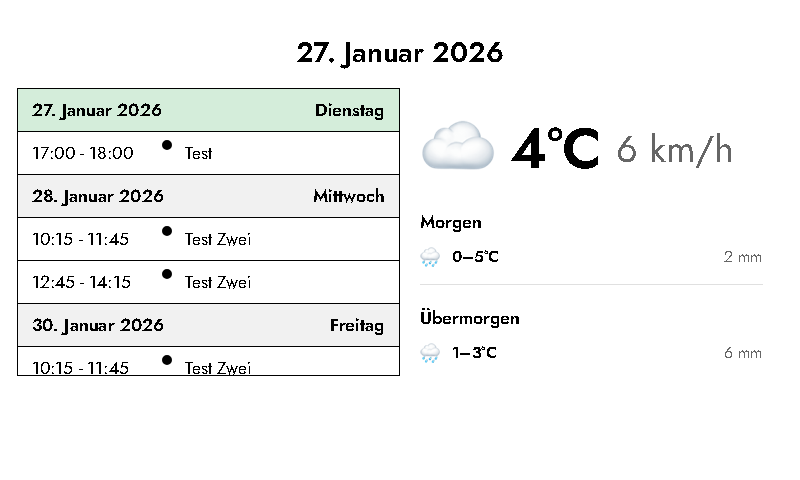
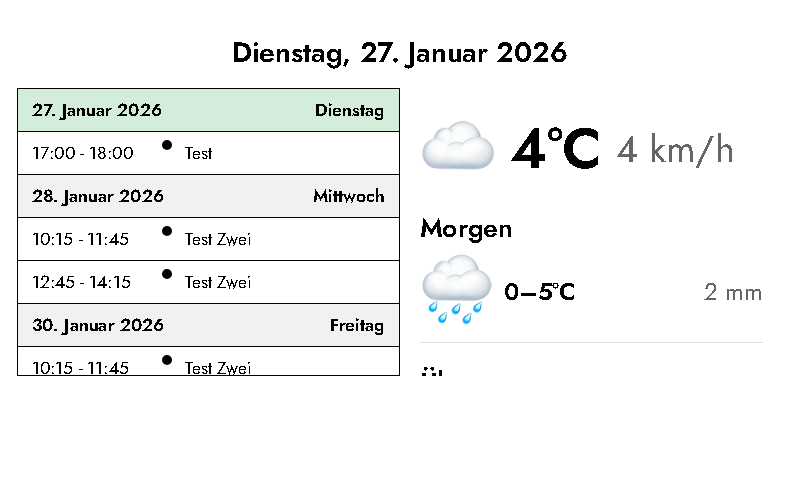
layout and green

diff --git a/src/plugins/seniorDashboard_allDay/render/seniorDashboard_allDay.css b/src/plugins/seniorDashboard_allDay/render/seniorDashboard_allDay.css
@@ -104,7 +104,7 @@
 }
 
 .weather-day-date {
-  font-size: calc(1.1 * var(--fc-table-font-size, 1em));
+  font-size: calc(1.1 * 1.5 * var(--fc-table-font-size, 1em));
   font-weight: bold;
   margin-bottom: 8px;
   color: #000000;
@@ -114,7 +114,12 @@
   display: flex;
   align-items: center;
   gap: 12px;
-  font-size: calc(1 * var(--fc-table-font-size, 1em));
+  font-size: calc(1 * 1.5 * var(--fc-table-font-size, 1em));
+}
+
+.weather-day .weather-icon {
+  font-size: calc(2 * 1.3 * var(--fc-table-font-size, 1em));
+  line-height: 1;
 }
 
 .weather-temp-range {
@@ -199,10 +204,10 @@ th {
   font-size: var(--fc-table-font-size) !important;
 }
 
-/* Style today's date header in listMonth view with light green background */
+/* Style today's date header in listMonth view with pure green background for Waveshare EPD */
 .fc-listMonth-view .fc-list-day.fc-day-today,
 .fc-list-view .fc-list-day.fc-day-today {
-  background-color: #d4edda !important;
+  background-color: #00FF00 !important;
 }
 
 .fc-listMonth-view .fc-list-day.fc-day-today .fc-list-day-text,
@@ -211,7 +216,7 @@ th {
 .fc-list-view .fc-list-day.fc-day-today .fc-list-day-text,
 .fc-list-view .fc-list-day.fc-day-today .fc-list-day-side-text,
 .fc-list-view .fc-list-day.fc-day-today .fc-list-day-cushion {
-  background-color: #d4edda !important;
+  background-color: #00FF00 !important;
 }
 
 /* Ensure FullCalendar elements respect the 50% width constraint */

diff --git a/src/plugins/seniorDashboard_allDay/render/seniorDashboard_allDay.html b/src/plugins/seniorDashboard_allDay/render/seniorDashboard_allDay.html
@@ -74,9 +74,9 @@
     // Create date object from ISO string to handle timezone correctly
     const currentDate = new Date('{{ current_dt }}');
 
-    // Format date to match listMonth date headers (e.g., "January 27, 2026")
-    // Using the same format that FullCalendar uses for listMonth day headers (without weekday)
+    // Format date with weekday (e.g., "Tuesday, January 27, 2026" or "Dienstag, 27. Januar 2026")
     const dateFormatter = new Intl.DateTimeFormat(locale, {
+        weekday: 'long',
         year: 'numeric',
         month: 'long',
         day: 'numeric',
